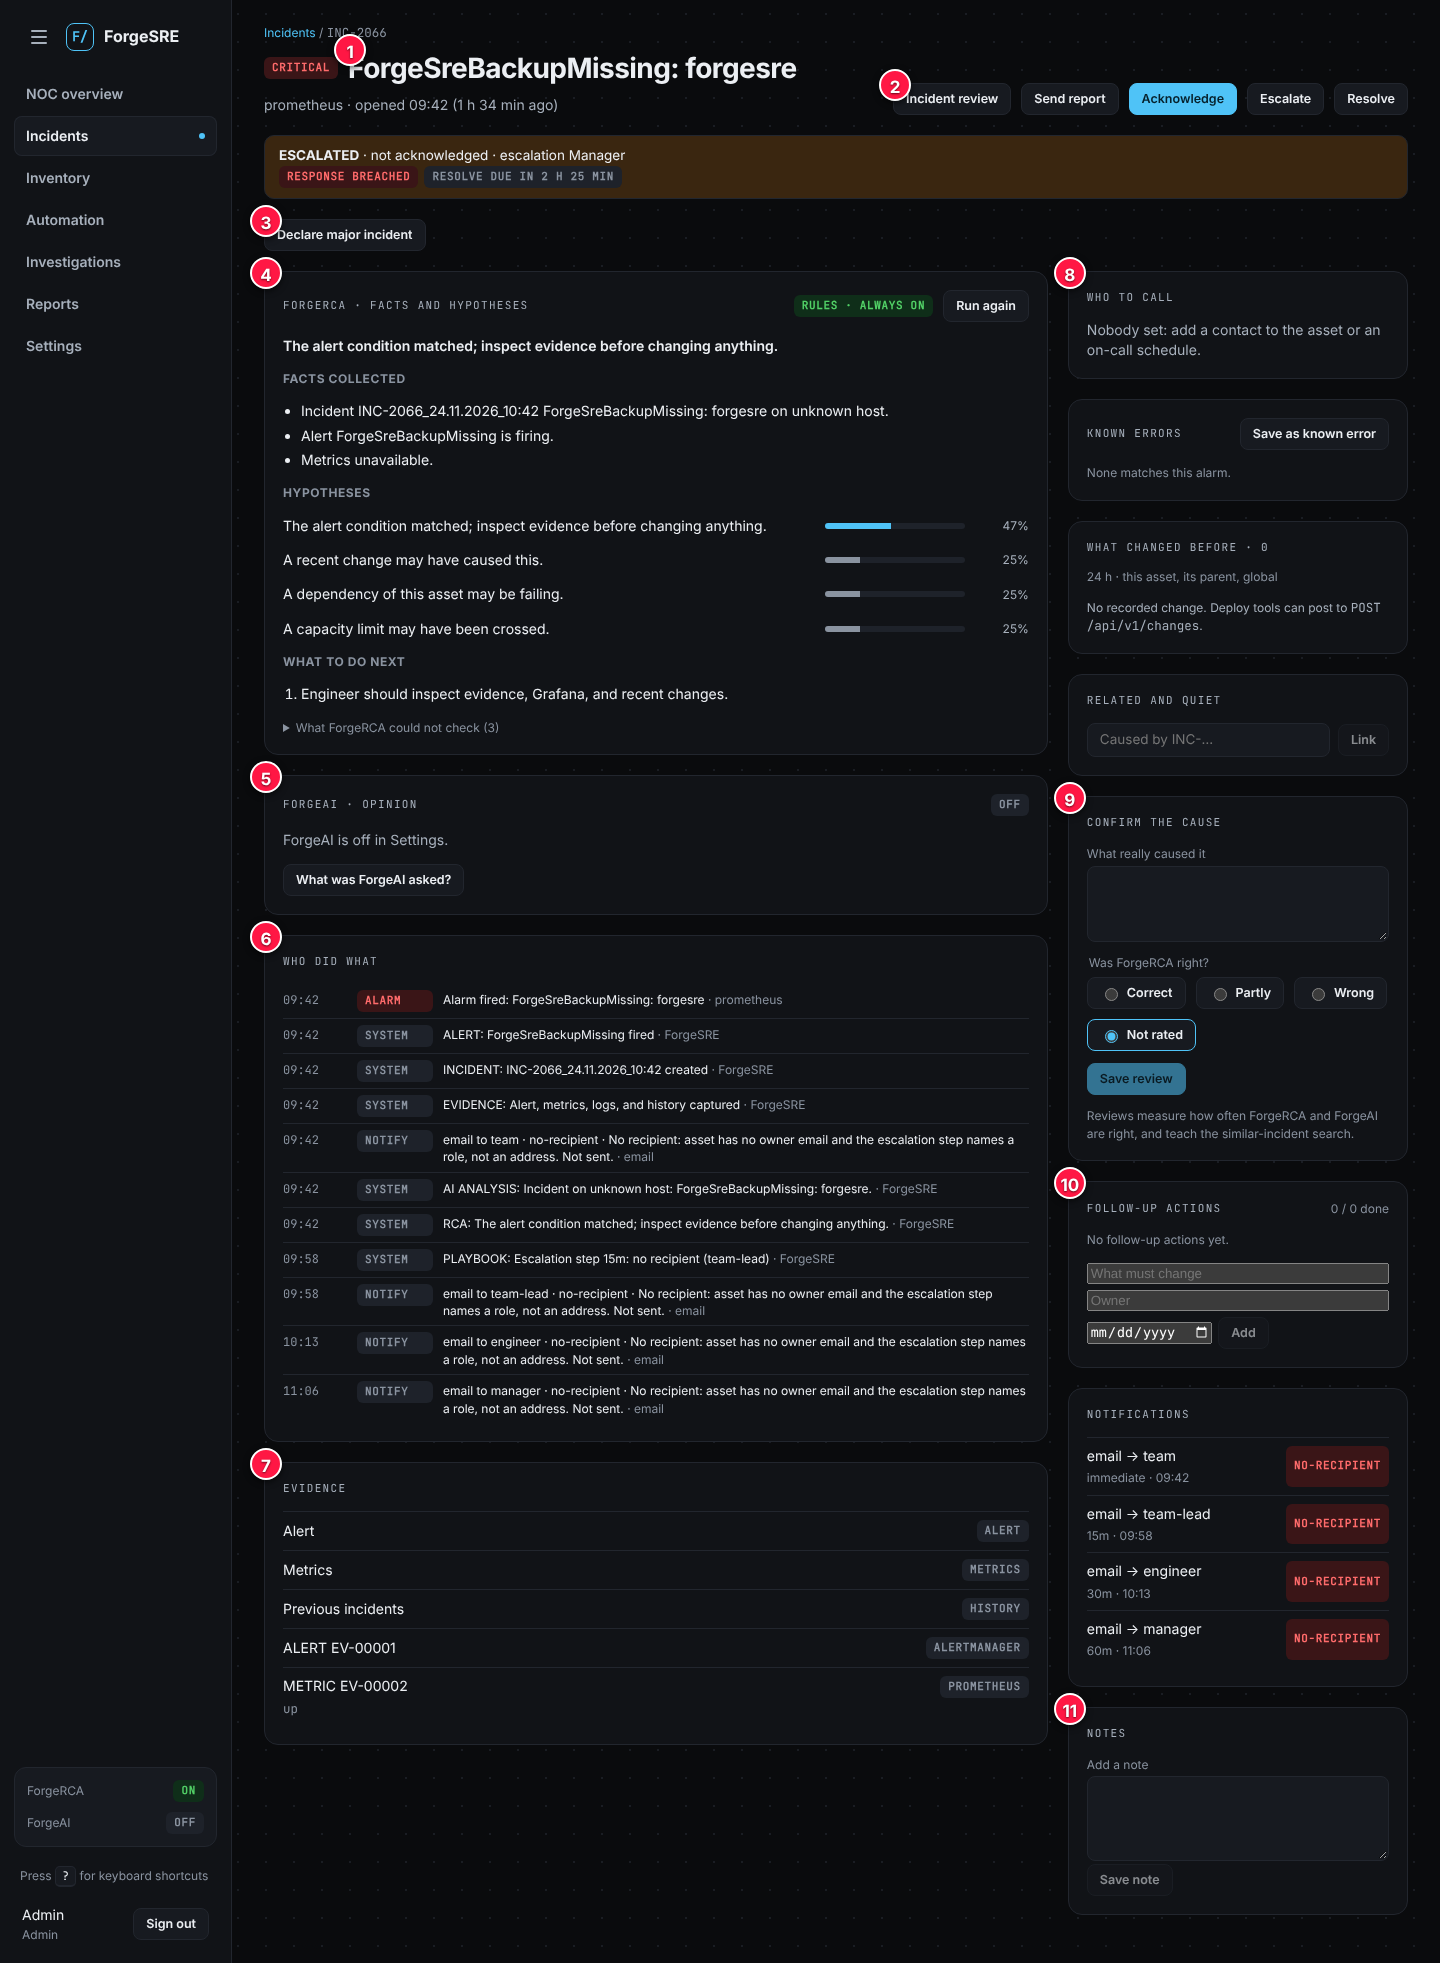
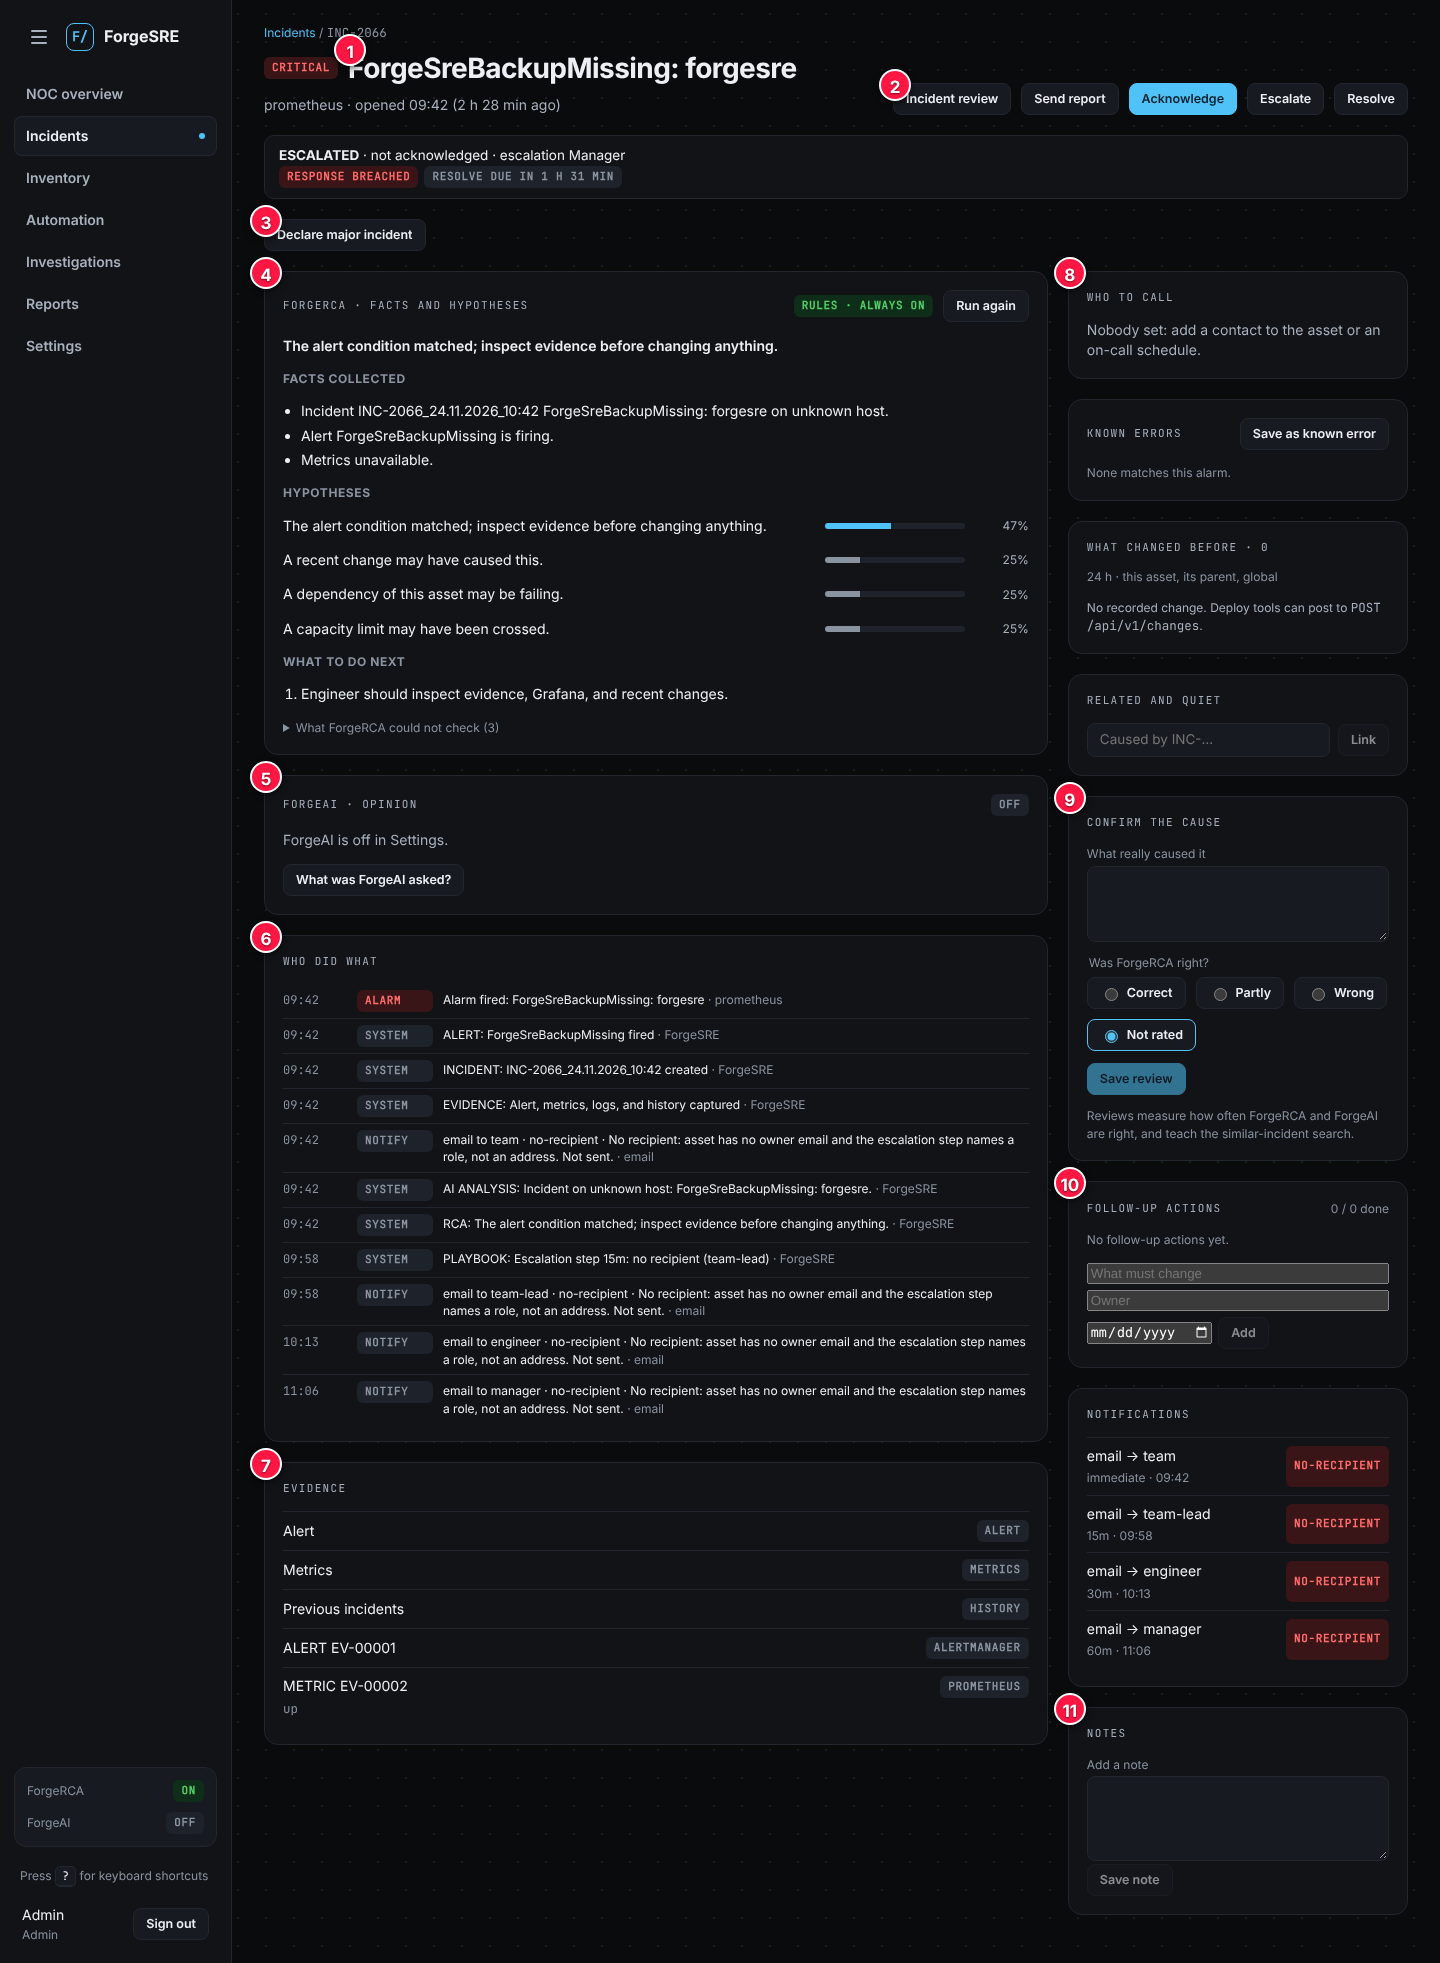
Incident page: status line in the plain card colour, not tinted by state (#259)
Claude-Session: https://claude.ai/code/session_01K9hus2JZBeXGjiRoAgeJJH

Changed region(s): [[0.1875, 0.0311, 1.0, 0.1243]]

diff --git a/web/src/pages/IncidentDetail.tsx b/web/src/pages/IncidentDetail.tsx
@@ -97,7 +97,8 @@ export function IncidentDetailPage() {
       {postmortem ? <PostmortemPanel number={data.number} onClose={() => setPostmortem(false)} /> : null}
       {mail ? <SendReport number={data.number} onClose={() => setMail(false)} /> : null}
       {error ? <div className="banner error" role="alert">{error}</div> : null}
-      <div className="banner" style={{ background: open ? "var(--high-bg)" : "var(--ok-bg)", border: "1px solid var(--border)" }}>
+      {/* plain card colour like the rest of the page; the state is in the words and the SLA chips */}
+      <div className="banner" style={{ background: "var(--s1)", border: "1px solid var(--border)" }}>
         <strong>{data.status}</strong>
         {data.ack_at ? ` · acknowledged by ${data.ack_by} at ${clock(data.ack_at)}` : open ? " · not acknowledged" : ""}
         {data.resolved_at ? ` · resolved by ${data.resolved_by || "system"} at ${clock(data.resolved_at)}` : ""}
